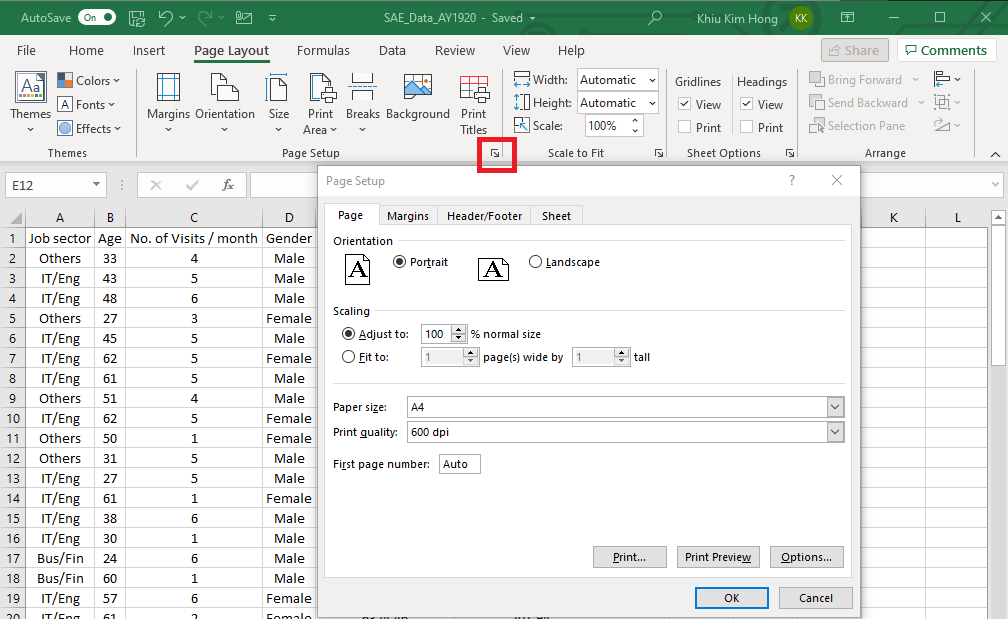
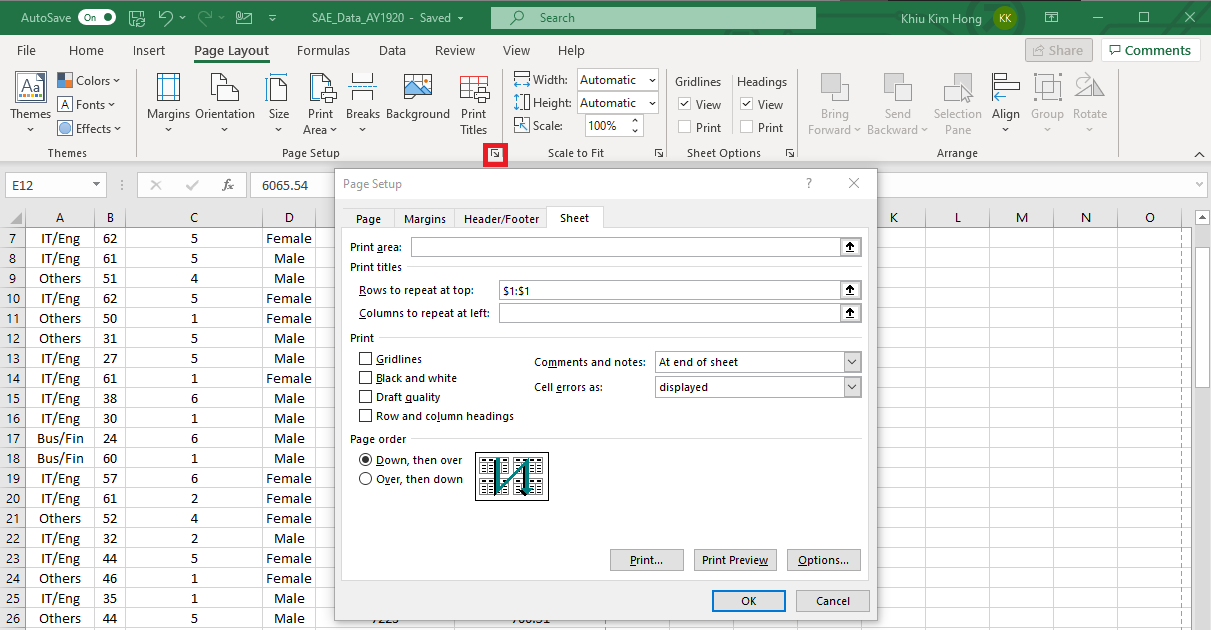
completed notes segment

Changed region(s): [[0.0, 0.0, 1.0, 1.0]]

diff --git a/_posts/2021-04-07-personal-excel-basics.md b/_posts/2021-04-07-personal-excel-basics.md
@@ -138,6 +138,22 @@ To print the comment, we use the same menu as the one we used to set our header 
 |![comment print output](/assets/images/personal-excel-basics/comment_print_op.png)|
 |<em>comment print preview</em>|
 
+Notes are similar in nature with comments. Except note do not have collaboration tools and require hovering over it to view it (or the user can use the top bar to navigate notes).
+
+|![insert note 1](/assets/images/personal-excel-basics/note_insert-1.png)|![insert note 2](/assets/images/personal-excel-basics/note_insert-2.png)
+|<em>methods of inserting notes</em>|
+|![insert note op](/assets/images/personal-excel-basics/note_insert_op.png)|![insert note op 2](/assets/images/personal-excel-basics/note_insert_op-2.png)
+|<em>viewing notes</em>|
+
+To print notes, we use the same menu as the one we used to set our header and footer.
+
+|![note print setup](/assets/images/personal-excel-basics/note_print.png)|
+|<em>note printing setup</em>|
+|![note print output - end](/assets/images/personal-excel-basics/note_print_op-1.png)|
+|<em>printing notes at the end of the document</em>|
+|![note print output - displayed](/assets/images/personal-excel-basics/note_print_op-2.png)|
+|<em>printing notes as displayed</em>|
+
 ***
 
 Other capabilities of Excel 2019
